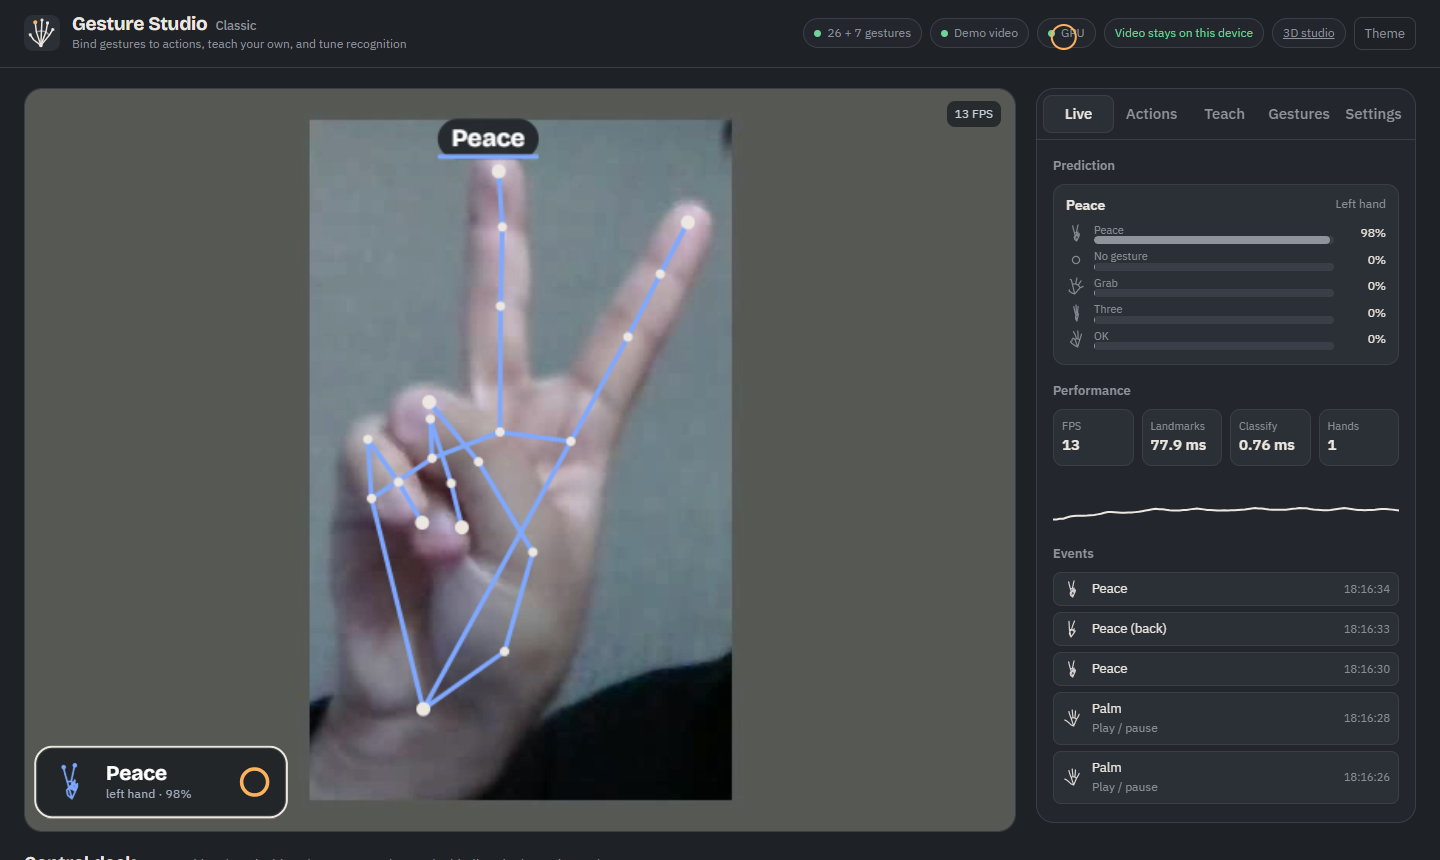
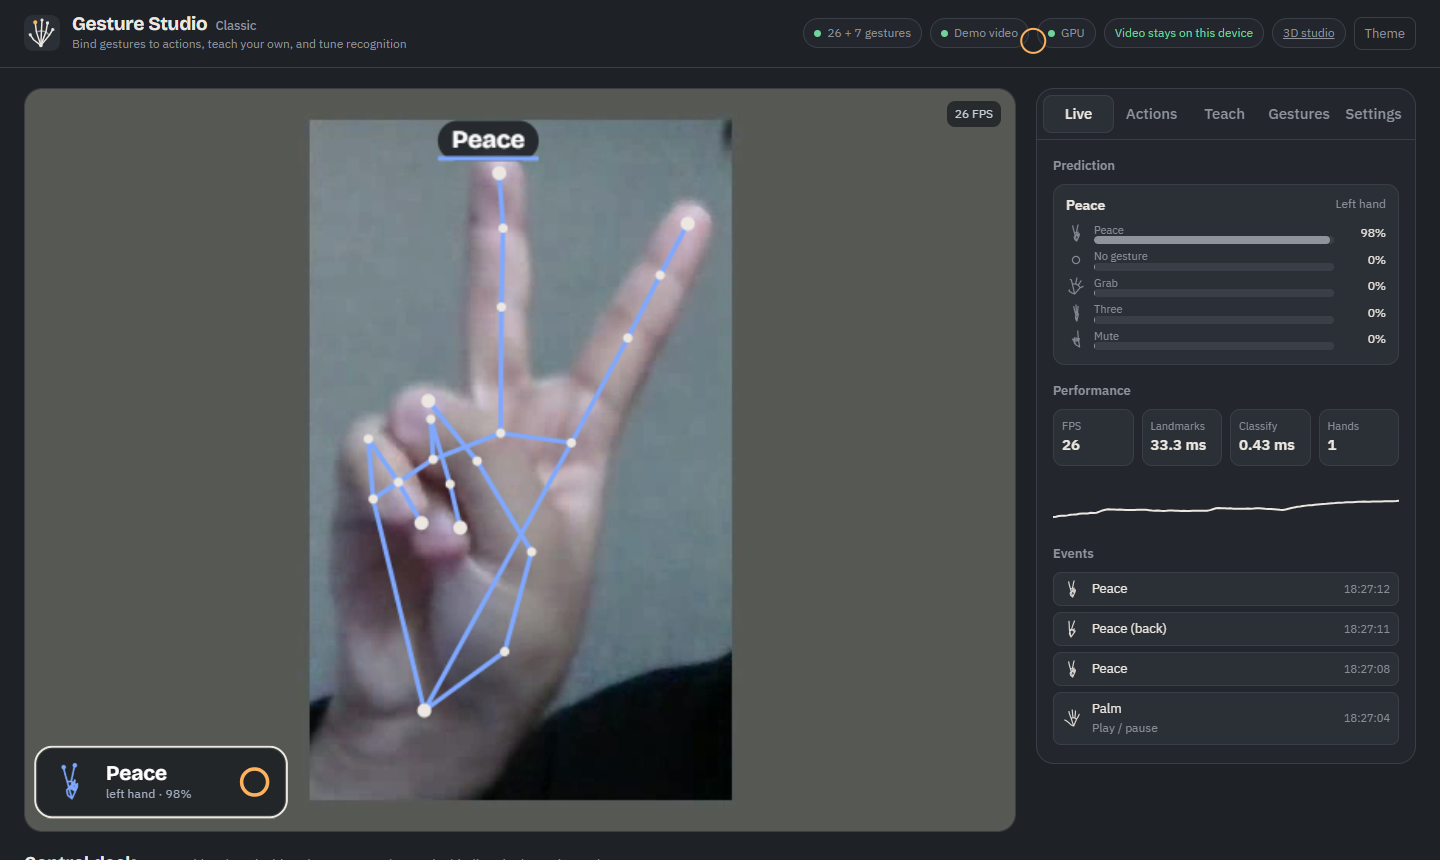
Stable labels through transitions, fluid hand motion, latency readout fix
- Engine follows hands by palm position instead of MediaPipe's Left/Right label, which flips mid-transition and
  reset the smoothing
- Label hysteresis: the shown label changes only when the new class leads by 0.35 or has led for 150 ms
- 3D hands interpolate to tracking targets every display frame (exponential, ~45 ms) instead of stepping at camera rate
- Latency average ignores warm-up frames
- Screenshot script reads the prediction state directly

diff --git a/web/js/engine.js b/web/js/engine.js
@@ -38,17 +38,57 @@ export class GestureEngine {
    * hands: [{ landmarks: [[x, y], ...21], handedness: "Left" | "Right" }] in raw image coordinates.
    * Returns { hands, pair, events, cursor, classifyMs }.
    */
+  /** Matches hands to existing tracks by nearest palm position (greedy); unmatched hands get a new track. */
+  assignTracks(hands) {
+    const free = [...this.tracks.entries()].filter(([, tr]) => tr.anchor);
+    return hands.map((h) => {
+      const p = h.landmarks[9];
+      let best = -1;
+      let bestD = 0.2; // max palm travel between frames, in normalised image units
+      free.forEach(([, tr], j) => {
+        const d = Math.hypot(tr.anchor[0] - p[0], tr.anchor[1] - p[1]);
+        if (d < bestD) { bestD = d; best = j; }
+      });
+      if (best >= 0) return free.splice(best, 1)[0][0];
+      this.nextTrack = (this.nextTrack ?? 0) + 1;
+      return `hand${this.nextTrack}`;
+    });
+  }
+
+  /**
+   * Label hysteresis: the shown label only changes when the challenger clearly leads (by a margin) or has been on
+   * top for a short time. Stops one-frame flickers while a hand moves between poses.
+   */
+  stableLabel(track, top, s, tMs) {
+    const want = top[0].p >= s.minConfidence ? top[0].id : "no_gesture";
+    const cur = track.shown ?? want;
+    if (want === cur) { track.shown = cur; track.challenger = null; return cur; }
+    const idx = this.hand.classes.indexOf(cur);
+    const curP = idx >= 0 ? track.probs[idx] : 0;
+    const margin = top[0].p - curP;
+    if (!track.challenger || track.challenger.id !== want) track.challenger = { id: want, since: tMs };
+    if (margin > 0.35 || tMs - track.challenger.since >= 150) {
+      track.shown = want;
+      track.challenger = null;
+    }
+    return track.shown;
+  }
+
   update(hands, tMs, aspect) {
     const t0 = performance.now();
     const s = this.settings;
     const events = [];
     const seen = new Set();
 
+    // Follow each hand by where it is, not by MediaPipe's Left/Right label: that label often flips mid-transition,
+    // which used to reset the smoothing and let a single raw frame through (e.g. a fist briefly read as another class).
+    const keys = this.assignTracks(hands);
     const out = hands.map((h, i) => {
-      const key = seen.has(h.handedness) ? `${h.handedness}#${i}` : h.handedness;
+      const key = keys[i];
       seen.add(key);
       const track = this.tracks.get(key) ?? { probs: null, dwell: null, history: [], pinching: false };
       this.tracks.set(key, track);
+      track.anchor = h.landmarks[9];
 
       const features = featurize(h.landmarks, aspect);
       const probs = this.hand.predictProba(features, s.rejectBias);
@@ -56,8 +96,9 @@ export class GestureEngine {
       const order = track.probs.map((p, c) => [p, c]).sort((a, b) => b[0] - a[0]);
       const top = order.slice(0, 5).map(([p, c]) => ({ id: this.hand.classes[c], p }));
 
-      let label = top[0].p >= s.minConfidence ? top[0].id : "no_gesture";
-      let confidence = top[0].p;
+      let label = this.stableLabel(track, top, s, tMs);
+      let confidence = label === "no_gesture" ? 1 - top[0].p : track.probs[this.hand.classes.indexOf(label)] ?? top[0].p;
+      if (label === top[0].id) confidence = top[0].p;
       const custom = this.custom.items.length ? this.custom.match(this.hand.embed(features)) : null;
       if (custom) {
         label = custom.id;

diff --git a/web/js/studio3d.js b/web/js/studio3d.js
@@ -150,13 +150,27 @@ function makeHand() {
   const label = makeLabel();
   scene.add(label.sprite);
   group.visible = trail.visible = false;
-  return { group, joints, bones, boneMat, trail, trailPts: [], label, pts: Array.from({ length: 21 }, () => new THREE.Vector3()) };
+  return { group, joints, bones, boneMat, trail, trailPts: [], label, pts: Array.from({ length: 21 }, () => new THREE.Vector3()),
+    target: Array.from({ length: 21 }, () => new THREE.Vector3()), fresh: true };
 }
 const hands3d = [makeHand(), makeHand()];
 
+// Tracking arrives at camera rate (~30 Hz) but we render at display rate: updateHand only sets targets, and drawHand
+// glides the skeleton towards them every frame, so motion stays fluid instead of stepping.
 function updateHand(h3, hand, color) {
+  hand.landmarks.forEach(([x, y], i) => toScene(x, y, hand.depth?.[i] ?? 0, h3.target[i]));
+  if (h3.fresh) h3.pts.forEach((p, i) => p.copy(h3.target[i])); // first sighting: no fly-in from the origin
+  h3.fresh = false;
+  h3.color = color;
+  h3.group.visible = h3.trail.visible = true;
+}
+
+function drawHand(h3, dt) {
+  if (!h3.group.visible) return;
+  const a = 1 - Math.exp(-dt * 22); // ~45 ms time constant: smooth, still responsive
+  h3.pts.forEach((p, i) => p.lerp(h3.target[i], a));
+  const color = h3.color;
   const k = screenW / 3.7;
-  hand.landmarks.forEach(([x, y], i) => toScene(x, y, hand.depth?.[i] ?? 0, h3.pts[i]));
   h3.pts.forEach((p, i) => {
     const r = ([4, 8, 12, 16, 20].includes(i) ? 0.03 : i === 0 ? 0.034 : 0.022) * k;
     h3.joints.setMatrixAt(i, tmpM.makeScale(r, r, r).setPosition(p));
@@ -188,6 +202,7 @@ function updateHand(h3, hand, color) {
 }
 
 function hideHand(h3) {
+  h3.fresh = true;
   h3.group.visible = h3.trail.visible = h3.label.sprite.visible = false;
   h3.trailPts = [];
 }
@@ -415,7 +430,10 @@ function setNow(id, color) {
 }
 
 function updatePanel(state, t, landmarkMs) {
-  hud.land = hud.land ? 0.9 * hud.land + 0.1 * (landmarkMs + state.classifyMs) : landmarkMs + state.classifyMs;
+  const ms = landmarkMs + state.classifyMs;
+  hud.frames = (hud.frames ?? 0) + 1;
+  // Skip the first frames: they include model and GPU warm-up and would poison the running average for seconds.
+  if (hud.frames > 10) hud.land = hud.land ? 0.9 * hud.land + 0.1 * ms : ms;
   const primary = state.hands[0];
   const id = state.pair?.id ?? primary?.label ?? null;
   // Throttle text updates to 10 Hz, but never let the panel disagree with the 3D label: a change of gesture or hand
@@ -425,7 +443,7 @@ function updatePanel(state, t, landmarkMs) {
   hud.last = t;
   hud.key = key;
   $("fps").textContent = hud.fps.toFixed(0);
-  $("latency").textContent = hud.land.toFixed(0);
+  $("latency").textContent = hud.land ? hud.land.toFixed(0) : "–";
   const color = state.pair ? "#ece8e1" : channelOf(primary?.handedness);
   document.querySelector(".now").style.setProperty("--hand", color);
   setNow(id, color);
@@ -552,6 +570,7 @@ function animate() {
   camTarget.set(cameraBase.x + (c ? (c.x - 0.5) * 0.35 : 0), cameraBase.y + (c ? (0.5 - c.y) * 0.2 : 0), cameraBase.z);
   camera.position.lerp(camTarget, 0.04);
   camera.lookAt(cameraBase.x * 0.85, SCREEN_Y - 0.35, 0);
+  hands3d.forEach((h3) => drawHand(h3, dt));
   composer.render();
 }
 
